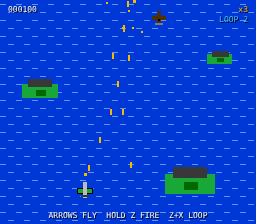
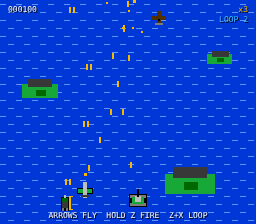
g47 Skyfire 42: add archer unit, fix tank draw
Claude-Session: https://claude.ai/code/session_01TLKWsn45b5mPjBKpKawYZm

diff --git a/kit/cabinet/games/g47.js b/kit/cabinet/games/g47.js
@@ -1,4 +1,4 @@
-// KEYS: At the start press Z for the PLANE or X for the TANK; the other is flown by the computer. Arrows move, hold Z or X to fire, the other button does a loop-the-loop (2 per game: dodge everything for a second). Shoot the red wave for POW, beat the big bomber.
+// KEYS: At the start pick PLANE, TANK or ARCHER with left/right and Z; the computer plays the other two. Arrows move, hold Z or X to fire, the other button does a loop-the-loop (2 per game: dodge everything for a second). Shoot the red wave for POW, beat the big bomber.
 /* ===== G47 SKYFIRE 42: vertical scrolling shooter in the cabinet's simple blocky style. Formations of fighters, red waves that drop POW (twin / triple shot), bombers, loop-the-loop dodge, boss bomber at the end. ===== */
 const T47 = { spd:84, cd:.13, bul:210, ebul:62, lives:3, loops:2, loopT:.85, boss:{ t:50, hp:55 }, time:100 };
 const W47 = [  /* [time, kind, count] */ [2, 'zig', 5], [6, 'vee', 5], [10, 'side', 4], [14, 'red', 5], [18, 'zig', 6], [21, 'bomber', 1], [24, 'vee', 7], [28, 'side', 5], [32, 'red', 6], [36, 'zig', 7], [39, 'bomber', 2], [43, 'vee', 7], [46, 'red', 6]];
@@ -11,17 +11,18 @@ function spawn47(S, k, n) { const R = () => S.rng();
     if (k === 'side') { const dir = S.wave % 2 ? 1 : -1; e.x = dir > 0 ? -10 - i * 16 : 266 + i * 16; e.y = 30 + (i % 2) * 14; e.vx = dir * 62; e.vy = 14; }
     if (k === 'red') { e.x = 40 + i * 26; e.y = -10 - i * 12; e.vy = 46; e.sx = e.x; }
     S.en.push(e); } S.wave++; }
-function hit47(S,w){const P=w==='t'?S.t:S.p;if(P.inv>0)return;P.lives--;P.inv=2;P.pow=0;P.flash=.3;burst(S,P.x,P.y,O,12);ENG.impact(S,'weak');sfx('hit');}
+function hit47(S,w){const P=w==='t'?S.t:w==='a'?S.ar:S.p;if(P.inv>0)return;P.lives--;P.inv=2;P.pow=0;P.flash=.3;burst(S,P.x,P.y,O,12);ENG.impact(S,'weak');sfx('hit');}
 function aiPlane47(S, i) { const P = S.p; if (S.win) return i; i.a = 1; let best = P.x, bs = -1e9; for (let x = 12; x <= 244; x += 6) { let s = 0; for (const b of S.eb) { const dy = P.y - b.y; if (dy > -6 && dy < 70) { const t = Math.max(.05, Math.abs(dy) / Math.max(20, b.vy)), bx = b.x + b.vx * t, d = Math.abs(bx - x); if (d < 18) s -= (18 - d) * (70 - Math.abs(dy)) * .12; } } for (const e of S.en) { const dy = P.y - e.y; if (dy > -4 && dy < 40 && Math.abs(e.x - x) < 14) s -= 30; if (e.y < P.y && Math.abs(e.x - x) < 6) s += 8; } if (S.boss && Math.abs(S.boss.x - x) < 14) s += 14; for (const q of S.pw) s += Math.max(0, 40 - Math.abs(q.x - x)) * .3; s -= Math.abs(x - P.x) * .02; if (s > bs) { bs = s; best = x; } }
     if (best > P.x + 3) i.r = 1; else if (best < P.x - 3) i.l = 1; const danger = S.eb.some(b => Math.abs(b.x - P.x) < 7 && P.y - b.y > -4 && P.y - b.y < 20) || S.en.some(e => Math.abs(e.x - P.x) < 11 && Math.abs(e.y - P.y) < 14); const wantY = P.y < 180 ? 1 : 0; if (wantY) i.d = 1; if (danger && P.loops > 0 && P.inv <= 0 && P.loop <= 0 && S.rt % .2 < .1) { i.b = 1; } return i; }
-function aiTank47(S, i) { const T = S.t; i.a = 1; let best = T.x, bs = -1e9; for (let x = 12; x <= 244; x += 6) { let sc = 0; for (const b of S.eb) { const dy = T.y - b.y; if (dy > -6 && dy < 70) { const t = Math.max(.05, Math.abs(dy) / Math.max(20, b.vy)), bx = b.x + b.vx * t; if (Math.abs(bx - x) < 16) sc -= (16 - Math.abs(bx - x)) * (70 - Math.abs(dy)) * .12; } } for (const e of S.en.concat(S.gr)) if (e.y < T.y && Math.abs(e.x - x) < 6) sc += 6; if (S.boss && Math.abs(S.boss.x - x) < 12) sc += 14; sc -= Math.abs(x - T.x) * .02; if (sc > bs) { bs = sc; best = x; } } if (best > T.x + 3) i.r = 1; else if (best < T.x - 3) i.l = 1; return i; }
+function aiTank47(S, i, T0) { const T = T0 || S.t; i.a = 1; let best = T.x, bs = -1e9; for (let x = 12; x <= 244; x += 6) { let sc = 0; for (const b of S.eb) { const dy = T.y - b.y; if (dy > -6 && dy < 70) { const t = Math.max(.05, Math.abs(dy) / Math.max(20, b.vy)), bx = b.x + b.vx * t; if (Math.abs(bx - x) < 16) sc -= (16 - Math.abs(bx - x)) * (70 - Math.abs(dy)) * .12; } } for (const e of S.en.concat(S.gr)) if (e.y < T.y && Math.abs(e.x - x) < 6) sc += 6; if (S.boss && Math.abs(S.boss.x - x) < 12) sc += 14; sc -= Math.abs(x - T.x) * .02; if (sc > bs) { bs = sc; best = x; } } if (best > T.x + 3) i.r = 1; else if (best < T.x - 3) i.l = 1; return i; }
 const GAME = kit({ id:'g47', t1:'SKYFIRE', t2:'42', sub:'LOOP. SHOOT. SURVIVE.', seed:947, off:47, secs:60, music:MUS(158, -14, false),
-  setup(S) { S.p = pl47(); S.bul = []; S.en = []; S.eb = []; S.pw = []; S.rt = 0; S.wave = 0; S.wi = 0; S.boss = null; S.pA = 0; S.pB = 0; S.sy = 0; S.fx = []; S.redLeft = {}; S.kills = 0; S.win = 0; S.mode = null; S.t = { x:128, y:200, lives:3, inv:1.5, cd:0 }; S.gr = []; S.gn = 3; },
-  step(S, dt, inp0) { const P = S.p, C = T47, T = S.t; if (!S.mode) { if (inp0.a && !S.pA) S.mode = 'plane'; else if (inp0.b && !S.pB) S.mode = 'tank'; S.pA = inp0.a; S.pB = inp0.b; if (!S.mode) return; }
-    const inp = S.mode === 'plane' ? inp0 : aiPlane47(S, {}), it = S.mode === 'tank' ? inp0 : aiTank47(S, {}); if (S.mode === 'plane' && T.lives <= 0) T.lives = 3; if (S.mode === 'tank' && P.lives <= 0) P.lives = 3; S.rt += dt; T.cd -= dt; T.inv -= dt;
+  setup(S) { S.p = pl47(); S.bul = []; S.en = []; S.eb = []; S.pw = []; S.rt = 0; S.wave = 0; S.wi = 0; S.boss = null; S.pA = 0; S.pB = 0; S.sy = 0; S.fx = []; S.redLeft = {}; S.kills = 0; S.win = 0; S.mode = null; S.cur = 0; S.pl = 0; S.pr = 0; S.ar = { x:64, y:204, lives:3, inv:1.5, cd:0 }; S.t = { x:128, y:200, lives:3, inv:1.5, cd:0 }; S.gr = []; S.gn = 3; },
+  step(S, dt, inp0) { const P = S.p, C = T47, T = S.t; if (!S.mode) { if (inp0.r && !S.pr) S.cur = (S.cur + 1) % 3; if (inp0.l && !S.pl) S.cur = (S.cur + 2) % 3; if ((inp0.a && !S.pA) || (inp0.b && !S.pB)) S.mode = ['plane', 'tank', 'archer'][S.cur]; S.pr = inp0.r; S.pl = inp0.l; S.pA = inp0.a; S.pB = inp0.b; if (!S.mode) return; }
+    const inp = S.mode === 'plane' ? inp0 : aiPlane47(S, {}), it = S.mode === 'tank' ? inp0 : aiTank47(S, {}), ia = S.mode === 'archer' ? inp0 : aiTank47(S, {}, S.ar), A = S.ar; if (S.mode !== 'tank' && T.lives <= 0) T.lives = 3; if (S.mode !== 'plane' && P.lives <= 0) P.lives = 3; if (S.mode !== 'archer' && A.lives <= 0) A.lives = 3; A.cd -= dt; A.inv -= dt; S.rt += dt; T.cd -= dt; T.inv -= dt;
     { const dx = (it.r ? 1 : 0) - (it.l ? 1 : 0), dy = (it.d ? 1 : 0) - (it.u ? 1 : 0); T.x = Math.max(8, Math.min(248, T.x + dx * 52 * dt)); T.y = Math.max(150, Math.min(212, T.y + dy * 40 * dt)); if ((it.a || it.b) && T.cd <= 0) { T.cd = .3; S.bul.push({ x:T.x, y:T.y - 9, vx:0, vy:-170 }); } }
+    { const dx = (ia.r ? 1 : 0) - (ia.l ? 1 : 0), dy = (ia.d ? 1 : 0) - (ia.u ? 1 : 0); A.x = Math.max(6, Math.min(250, A.x + dx * 66 * dt)); A.y = Math.max(150, Math.min(214, A.y + dy * 50 * dt)); if ((ia.a || ia.b) && A.cd <= 0) { A.cd = .26; S.bul.push({ x:A.x - 2, y:A.y - 8, vx:0, vy:-215 }); S.bul.push({ x:A.x + 2, y:A.y - 8, vx:0, vy:-215 }); } }
     S.gn -= dt; if (S.gn <= 0 && S.rt < C.boss.t - 4) { S.gn = 2.6 + S.rng() * 1.6; const n = 1 + (S.rng() * 2 | 0); for (let q = 0; q < n; q++) S.gr.push({ k:q % 3 === 2 ? 'gun' : 'gt', x:30 + S.rng() * 196, y:-12 - q * 22, hp:q % 3 === 2 ? 3 : 2, t:0, shot:1.5 + S.rng() * 2, vx:(S.rng() - .5) * 18 }); }
-    for (const g of S.gr) { g.t += dt; g.y += 28 * dt; if (g.k === 'gt') g.x += g.vx * dt; g.shot -= dt; if (g.shot <= 0 && g.y > 4 && g.y < 150) { g.shot = 2.4 + S.rng() * 1.6; const a = Math.atan2(T.y - g.y, T.x - g.x); S.eb.push({ x:g.x, y:g.y, vx:Math.cos(a) * C.ebul * .9, vy:Math.sin(a) * C.ebul * .9 }); } for (const b of S.bul) if (!b.dead && Math.abs(b.x - g.x) < 9 && Math.abs(b.y - g.y) < 7) { b.dead = true; g.hp--; g.flash = .08; if (g.hp <= 0) { g.dead = true; S.score += 80; S.kills++; burst(S, g.x, g.y, O, 8); sfx('hit'); } break; } if (!g.dead && T.inv <= 0 && Math.abs(T.x - g.x) < 10 && Math.abs(T.y - g.y) < 8) { g.dead = true; hit47(S, 't'); } if (g.y > 236) g.dead = true; }
+    for (const g of S.gr) { g.t += dt; g.y += 28 * dt; if (g.k === 'gt') g.x += g.vx * dt; g.shot -= dt; if (g.shot <= 0 && g.y > 4 && g.y < 150) { g.shot = 2.4 + S.rng() * 1.6; const tt = S.rng() < .5 ? T : A, a = Math.atan2(tt.y - g.y, tt.x - g.x); S.eb.push({ x:g.x, y:g.y, vx:Math.cos(a) * C.ebul * .9, vy:Math.sin(a) * C.ebul * .9 }); } for (const b of S.bul) if (!b.dead && Math.abs(b.x - g.x) < 9 && Math.abs(b.y - g.y) < 7) { b.dead = true; g.hp--; g.flash = .08; if (g.hp <= 0) { g.dead = true; S.score += 80; S.kills++; burst(S, g.x, g.y, O, 8); sfx('hit'); } break; } if (!g.dead && A.inv <= 0 && Math.abs(A.x - g.x) < 8 && Math.abs(A.y - g.y) < 8) { g.dead = true; hit47(S, 'a'); } if (!g.dead && T.inv <= 0 && Math.abs(T.x - g.x) < 10 && Math.abs(T.y - g.y) < 8) { g.dead = true; hit47(S, 't'); } if (g.y > 236) g.dead = true; }
     S.gr = S.gr.filter(g => !g.dead); S.sy = (S.sy + 28 * dt) % 224; P.cd -= dt; P.inv -= dt; P.flash -= dt; if (S.win) { S.win += dt; if (S.win > 2.2) return finish(S, 'MISSION CLEAR', S.score + P.lives * 500 + P.loops * 200); return; }
     if (P.loop > 0) { P.loop -= dt; } else { const dx = (inp.r ? 1 : 0) - (inp.l ? 1 : 0), dy = (inp.d ? 1 : 0) - (inp.u ? 1 : 0), n = Math.hypot(dx, dy) || 1; P.x = Math.max(8, Math.min(248, P.x + dx / n * C.spd * dt)); P.y = Math.max(20, Math.min(212, P.y + dy / n * C.spd * dt)); P.bank = dx; }
     const ea = inp.a && !S.pA, eb = inp.b && !S.pB; S.pA = inp.a; S.pB = inp.b; if ((ea || eb) && P.loops > 0 && P.loop <= 0 && S.pFireOnly === undefined) { /* tap = loop only if the other button is held (hold one to fire, tap other to loop) */ }
@@ -32,22 +33,23 @@ const GAME = kit({ id:'g47', t1:'SKYFIRE', t2:'42', sub:'LOOP. SHOOT. SURVIVE.',
     for (const b of S.bul) { b.x += b.vx * dt; b.y += b.vy * dt; if (b.y < -8) b.dead = true; }
     for (const e of S.en) { e.t += dt; e.flash = Math.max(0, (e.flash || 0) - dt);
       if (e.k === 'zig') { e.y += e.vy * dt; e.x = e.ox + Math.sin(e.t * 2.2 + e.i * .5) * 52; } else if (e.k === 'vee') { e.y += e.vy * dt; if (e.y > 90) e.y += 30 * dt; } else if (e.k === 'side') { e.x += e.vx * dt; e.y += e.vy * dt; } else if (e.k === 'red') { e.y += e.vy * dt; e.x = e.sx + Math.sin(e.t * 3) * 16; } else if (e.k === 'bomber') { e.y = Math.min(52, e.y + e.vy * dt); e.x += Math.sin(e.t * .8) * 18 * dt; }
-      e.shot -= dt; if (e.shot <= 0 && e.y > 6 && e.y < 160) { e.shot = e.k === 'bomber' ? 1.3 : 2.4 + S.rng() * 2; const tg = S.rng() < .4 ? T : P, a = Math.atan2(tg.y - e.y, tg.x - e.x), n = e.k === 'bomber' ? 3 : 1; for (let q = 0; q < n; q++) S.eb.push({ x:e.x, y:e.y + 6, vx:Math.cos(a + (q - (n - 1) / 2) * .28) * C.ebul, vy:Math.sin(a + (q - (n - 1) / 2) * .28) * C.ebul }); }
+      e.shot -= dt; if (e.shot <= 0 && e.y > 6 && e.y < 160) { e.shot = e.k === 'bomber' ? 1.3 : 2.4 + S.rng() * 2; const r3 = S.rng(), tg = r3 < .3 ? T : r3 < .6 ? A : P, a = Math.atan2(tg.y - e.y, tg.x - e.x), n = e.k === 'bomber' ? 3 : 1; for (let q = 0; q < n; q++) S.eb.push({ x:e.x, y:e.y + 6, vx:Math.cos(a + (q - (n - 1) / 2) * .28) * C.ebul, vy:Math.sin(a + (q - (n - 1) / 2) * .28) * C.ebul }); }
       for (const b of S.bul) if (!b.dead && Math.abs(b.x - e.x) < (e.k === 'bomber' ? 13 : 8) && Math.abs(b.y - e.y) < (e.k === 'bomber' ? 9 : 7)) { b.dead = true; e.hp--; e.flash = .08; if (e.hp <= 0) { e.dead = true; S.score += e.k === 'bomber' ? 400 : 50; S.kills++; burst(S, e.x, e.y, e.k === 'bomber' ? O : Y, e.k === 'bomber' ? 14 : 6); sfx('hit'); if (e.red) { S.redLeft[e.wave || 0]; const sib = S.en.filter(q => q.red && !q.dead && q !== e).length; if (!sib && !e.gaveOne) S.pw.push({ x:e.x, y:e.y }); } } break; }
       if (!e.dead && P.inv <= 0 && Math.abs(P.x - e.x) < 9 && Math.abs(P.y - e.y) < 8) { e.dead = true; hit47(S); } if (e.y > 236 || e.x < -30 || e.x > 286) e.dead = true; }
     if (S.boss) { const B = S.boss; B.t += dt; B.flash = Math.max(0, B.flash - dt); B.y = Math.min(42, B.y + 28 * dt); B.x += B.vx * dt; if (B.x < 50 || B.x > 206) B.vx *= -1; B.shot -= dt;
       if (B.shot <= 0 && B.y > 20) { B.shot = B.hp < B.max / 2 ? .7 : 1.1; B.phase++; const n = B.hp < B.max / 2 ? 7 : 5; for (let q = 0; q < n; q++) { const a = Math.PI / 2 + (q - (n - 1) / 2) * .26 + Math.sin(B.phase) * .15; S.eb.push({ x:B.x, y:B.y + 12, vx:Math.cos(a) * C.ebul * 1.1, vy:Math.sin(a) * C.ebul * 1.1 }); } }
       for (const b of S.bul) if (!b.dead && Math.abs(b.x - B.x) < 26 && Math.abs(b.y - B.y) < 14) { b.dead = true; B.hp--; B.flash = .06; S.score += 5; if (B.hp <= 0) { S.win = .001; S.score += 3000; for (let k = 0; k < 6; k++) burst(S, B.x + (S.rng() - .5) * 40, B.y + (S.rng() - .5) * 16, k % 2 ? O : Y, 12); ENG.impact(S, 'strong'); S.eb = []; S.boss = null; break; } }
       if (S.boss && P.inv <= 0 && Math.abs(P.x - B.x) < 24 && Math.abs(P.y - B.y) < 12) hit47(S); }
-    for (const b of S.eb) { b.x += b.vx * dt; b.y += b.vy * dt; if (b.y > 232 || b.y < -8 || b.x < -8 || b.x > 264) b.dead = true; else if (P.inv <= 0 && P.loop <= 0 && Math.abs(b.x - P.x) < 4 && Math.abs(b.y - P.y) < 5) { b.dead = true; hit47(S); } else if (T.inv <= 0 && Math.abs(b.x - T.x) < 6 && Math.abs(b.y - T.y) < 6) { b.dead = true; hit47(S, 't'); } }
+    for (const b of S.eb) { b.x += b.vx * dt; b.y += b.vy * dt; if (b.y > 232 || b.y < -8 || b.x < -8 || b.x > 264) b.dead = true; else if (P.inv <= 0 && P.loop <= 0 && Math.abs(b.x - P.x) < 4 && Math.abs(b.y - P.y) < 5) { b.dead = true; hit47(S); } else if (T.inv <= 0 && Math.abs(b.x - T.x) < 6 && Math.abs(b.y - T.y) < 6) { b.dead = true; hit47(S, 't'); } else if (A.inv <= 0 && Math.abs(b.x - A.x) < 4 && Math.abs(b.y - A.y) < 6) { b.dead = true; hit47(S, 'a'); } }
     for (const q of S.pw) { q.y += 22 * dt; if (Math.abs(q.x - P.x) < 11 && Math.abs(q.y - P.y) < 11) { q.dead = true; P.pow = Math.min(2, P.pow + 1); S.score += 200; sfx('go'); } else if (q.y > 232) q.dead = true; }
     S.bul = S.bul.filter(b => !b.dead); S.en = S.en.filter(e => !e.dead); S.eb = S.eb.filter(b => !b.dead); S.pw = S.pw.filter(q => !q.dead);
-    if ((S.mode === 'plane' ? P.lives : T.lives) <= 0) return finish(S, 'SHOT DOWN', S.score); if (S.rt > C.time) return finish(S, 'TIME', S.score); },
-  draw(S) { const P = S.p; rect(0, 0, 256, 224, B); for (let y = 0; y < 224; y += 8) { const yy = (y + Math.floor(S.sy)) % 224; for (let x = (y / 8 % 2) * 8; x < 256; x += 16) rect(x, yy, 6, 1, SKY); }
+    if ((S.mode === 'plane' ? P.lives : S.mode === 'tank' ? T.lives : A.lives) <= 0) return finish(S, 'SHOT DOWN', S.score); if (S.rt > C.time) return finish(S, 'TIME', S.score); },
+  draw(S) { const P = S.p, T = S.t, A = S.ar; rect(0, 0, 256, 224, B); for (let y = 0; y < 224; y += 8) { const yy = (y + Math.floor(S.sy)) % 224; for (let x = (y / 8 % 2) * 8; x < 256; x += 16) rect(x, yy, 6, 1, SKY); }
     for (const [ix, iy, s] of [[40, 40, 1], [190, 130, 1.4], [100, 200, .8], [220, 10, .7]]) { const y = (iy + S.sy) % 300 - 40, x = ix; rect(x - 18 * s, y, 36 * s, 14 * s, GR); rect(x - 12 * s, y - 5 * s, 24 * s, 8 * s, DG); rect(x - 4 * s, y + 6 * s, 10 * s, 6 * s, F); }
     for (const q of S.pw) { rect(q.x - 7, q.y - 7, 14, 14, W); rect(q.x - 6, q.y - 6, 12, 12, R); txt('P', q.x, q.y - 4, W, 8, 'center'); }
     for (const g of S.gr) { const x = Math.round(g.x), y = Math.round(g.y), f = g.flash > 0; if (g.k === 'gt') { rect(x - 8, y - 6, 16, 12, K); rect(x - 7, y - 5, 14, 10, f ? W : DG); rect(x - 3, y - 3, 6, 6, GR); rect(x - 1, y, 2, 8, K); } else { rect(x - 7, y - 7, 14, 14, K); rect(x - 6, y - 6, 12, 12, f ? W : BRK); rect(x - 2, y - 2, 4, 4, R); } }
     if (S.mode && T.lives > 0 && !(T.inv > 0 && (Math.floor(S.rt * 14) & 1))) { const x = Math.round(T.x), y = Math.round(T.y); rect(x - 9, y - 6, 18, 13, K); rect(x - 8, y - 5, 16, 3, D); rect(x - 8, y + 3, 16, 3, D); rect(x - 6, y - 3, 12, 7, GR); rect(x - 3, y - 4, 6, 6, L); rect(x - 1, y - 11, 2, 8, K); }
+    if (S.mode && A.lives > 0 && !(A.inv > 0 && (Math.floor(S.rt * 14) & 1))) { const x = Math.round(A.x), y = Math.round(A.y); rect(x - 4, y - 7, 8, 14, K); rect(x - 3, y - 6, 6, 4, F); rect(x - 3, y - 2, 6, 6, DG); rect(x - 3, y + 4, 2, 3, D); rect(x + 1, y + 4, 2, 3, D); rect(x + 4, y - 8, 2, 14, Y); rect(x + 4, y - 8, 4, 1, Y); rect(x + 4, y + 5, 4, 1, Y); rect(x - 1, y - 9, 2, 3, L); }
     for (const e of S.en) { const x = Math.round(e.x), y = Math.round(e.y), f = e.flash > 0;
       if (e.k === 'bomber') { rect(x - 14, y - 3, 28, 6, f ? W : GR); rect(x - 4, y - 10, 8, 20, f ? W : L); rect(x - 14, y - 4, 4, 3, D); rect(x + 10, y - 4, 4, 3, D); rect(x - 2, y + 8, 4, 4, DG); }
       else { const c = e.red ? R : e.k === 'zig' ? M : e.k === 'vee' ? S : GR; rect(x - 7, y - 2, 14, 4, f ? W : c); rect(x - 2, y - 7, 4, 14, f ? W : c); rect(x - 4, y + 5, 8, 2, f ? W : D); rect(x - 1, y + 1, 2, 2, K); } }
@@ -55,9 +57,9 @@ const GAME = kit({ id:'g47', t1:'SKYFIRE', t2:'42', sub:'LOOP. SHOOT. SURVIVE.',
     for (const b of S.bul) rect(Math.round(b.x) - 1, Math.round(b.y) - 3, 2, 6, Y);
     for (const b of S.eb) { rect(Math.round(b.x) - 2, Math.round(b.y) - 2, 4, 4, W); rect(Math.round(b.x) - 1, Math.round(b.y) - 1, 2, 2, R); }
     if (P.lives > 0) { const x = Math.round(P.x), y = Math.round(P.y), blink = P.inv > 0 && P.loop <= 0 && (Math.floor(S.rt * 14) & 1), lp = P.loop > 0, k = lp ? Math.floor(P.loop * 14) & 3 : -1; if (!blink) { const w = lp ? [14, 9, 4, 9][k] : 14; rect(x - w / 2 - 1, y - 2, w + 2, 6, K); rect(x - w / 2, y - 1, w, 4, lp ? Y : GR); rect(x - 2, y - 8, 4, 16, lp ? W : L); rect(x - 4, y + 5, 8, 2, DG); if (P.pow > 0) { rect(x - 9, y - 1, 3, 3, Y); rect(x + 6, y - 1, 3, 3, Y); } if (P.pow > 1) rect(x - 1, y - 11, 2, 3, Y); } }
-    if (S.mode) { const h = S.mode === 'plane' ? P : T; rect(Math.round(h.x) - 1, Math.round(h.y) - 17, 3, 3, Y); }
-    if (!S.mode) { rect(30, 80, 196, 60, K); rect(32, 82, 192, 56, B); rect(40, 108, 20, 8, GR); rect(48, 102, 4, 20, L); rect(176, 106, 20, 12, GR); rect(184, 100, 4, 8, L); }
+    if (S.mode) { const h = S.mode === 'plane' ? P : S.mode === 'tank' ? T : A; rect(Math.round(h.x) - 1, Math.round(h.y) - 17, 3, 3, Y); }
+    if (!S.mode) { rect(24, 80, 208, 60, K); rect(26, 82, 204, 56, B); rect(46, 108, 20, 6, GR); rect(54, 100, 4, 20, L); rect(116, 106, 20, 12, GR); rect(124, 100, 4, 8, L); rect(190, 104, 8, 14, DG); rect(200, 100, 2, 20, Y); rect(S.cur * 70 + 38, 124, 36, 2, Y); }
     if (S.boss) { const B = S.boss; rect(60, 20, 136, 6, W); rect(61, 21, 134, 4, K); rect(61, 21, Math.round(134 * Math.max(0, B.hp) / B.max), 4, R); } },
-  hud(S) { if (!S.mode) { txt('CHOOSE YOUR UNIT', 128, 86, Y, 8, 'center'); txt('Z PLANE', 76, 124, W, 8, 'center'); txt('X TANK', 186, 124, W, 8, 'center'); return; } txt(String(S.score).padStart(6, '0'), 8, 6, W, 8); txt('x' + Math.max(0, S.mode === 'plane' ? S.p.lives : S.t.lives), 248, 6, Y, 8, 'right'); if (S.mode === 'plane') txt('LOOP ' + S.p.loops, 248, 16, CY, 8, 'right'); if (S.rt < 2.2) txt('GET READY', 128, 100, Y, 16, 'center'); if (S.win) txt('MISSION CLEAR', 128, 90, Y, 16, 'center'); hintS(S, S.mode === 'tank' ? 'ARROWS DRIVE  HOLD Z FIRE' : 'ARROWS FLY  HOLD Z FIRE  Z+X LOOP', 8, 212); },
-  info(S) { return { unit:S.mode, tl:S.t.lives, gr:S.gr.length, lives:S.p.lives, loops:S.p.loops, pow:S.p.pow, en:S.en.length, eb:S.eb.length, boss:S.boss ? S.boss.hp : -1, kills:S.kills, x:Math.round(S.p.x), t:+S.rt.toFixed(1) }; },
-  bot(S, i) { if (!S.mode) { if (typeof location !== 'undefined' && /tank/.test(location.search)) i.b = 1; else i.a = 1; return i; } return S.mode === 'plane' ? aiPlane47(S, i) : aiTank47(S, i); } });
+  hud(S) { if (!S.mode) { txt('CHOOSE YOUR UNIT', 128, 86, Y, 8, 'center'); txt('PLANE', 56, 128, W, 8, 'center'); txt('TANK', 126, 128, W, 8, 'center'); txt('ARCHER', 196, 128, W, 8, 'center'); txt('< > PICK  Z GO', 128, 148, CY, 8, 'center'); return; } txt(String(S.score).padStart(6, '0'), 8, 6, W, 8); txt('x' + Math.max(0, S.mode === 'plane' ? S.p.lives : S.mode === 'tank' ? S.t.lives : S.ar.lives), 248, 6, Y, 8, 'right'); if (S.mode === 'plane') txt('LOOP ' + S.p.loops, 248, 16, CY, 8, 'right'); if (S.rt < 2.2) txt('GET READY', 128, 100, Y, 16, 'center'); if (S.win) txt('MISSION CLEAR', 128, 90, Y, 16, 'center'); hintS(S, S.mode !== 'plane' ? 'ARROWS MOVE  HOLD Z FIRE' : 'ARROWS FLY  HOLD Z FIRE  Z+X LOOP', 8, 212); },
+  info(S) { return { unit:S.mode, al:S.ar.lives, tl:S.t.lives, gr:S.gr.length, lives:S.p.lives, loops:S.p.loops, pow:S.p.pow, en:S.en.length, eb:S.eb.length, boss:S.boss ? S.boss.hp : -1, kills:S.kills, x:Math.round(S.p.x), t:+S.rt.toFixed(1) }; },
+  bot(S, i) { if (!S.mode) { const want = typeof location !== 'undefined' ? (/archer/.test(location.search) ? 2 : /tank/.test(location.search) ? 1 : 0) : 0; if (S.cur !== want) { if (S.rt === 0 && (S.pr ? 0 : 1)) i.r = 1; } else i.a = 1; return i; } return S.mode === 'plane' ? aiPlane47(S, i) : aiTank47(S, i, S.mode === 'archer' ? S.ar : S.t); } });

diff --git a/docs/CAPABILITIES.md b/docs/CAPABILITIES.md
@@ -85,7 +85,7 @@ human explicitly says "full game", "assets", or "trailer". Never ask.**
   gpphys, gpchar, gpsprites, gpaudio, gptouch (`docs/TOUCH.md`), gpviewport
   (9:16 safe zones), gpshaders / gptoon, gpretro + gbfixed (ports),
   gpmonetize. Index: `docs/KIT.md`.
-- **Simple-style blocky arcade games (`kit/cabinet`, g46-g47, plain rects, no rig):** g46 Crypt Gauntlet (top-down dungeon crawler: keys, doors, bone-pile spawners, draining health, 3 rooms) and g47 Skyfire 42 (vertical shooter with a plane/tank choice at the start; the CPU flies the other unit; loop dodge, POW upgrades, boss bomber).
+- **Simple-style blocky arcade games (`kit/cabinet`, g46-g47, plain rects, no rig):** g46 Crypt Gauntlet (top-down dungeon crawler: keys, doors, bone-pile spawners, draining health, 3 rooms) and g47 Skyfire 42 (vertical shooter with a plane, tank or archer choice at the start; the CPU plays the other two; loop dodge, POW upgrades, boss bomber).
 - **Cabinet rig games (`kit/cabinet`, g35-g45):** `pixrig.js` (PRIG) draws characters fresh
   every frame from a skeleton — no sprite assets: soldier/zombie/fighter kinds, a jointed
   fighter skeleton (pelvis, spine, two shoulders, knee/elbow flexion limits, heel/toe feet)
